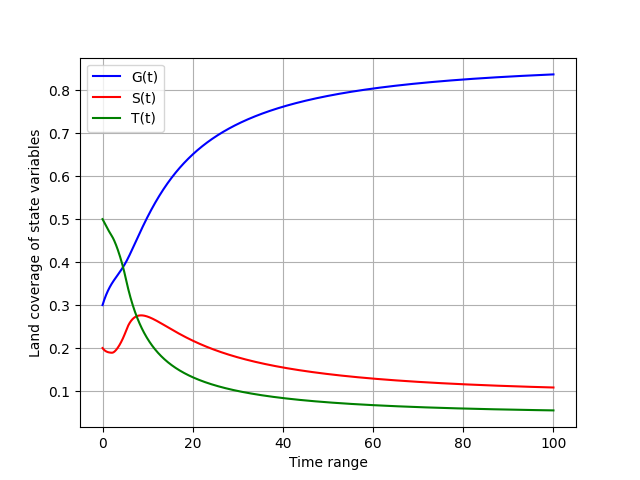
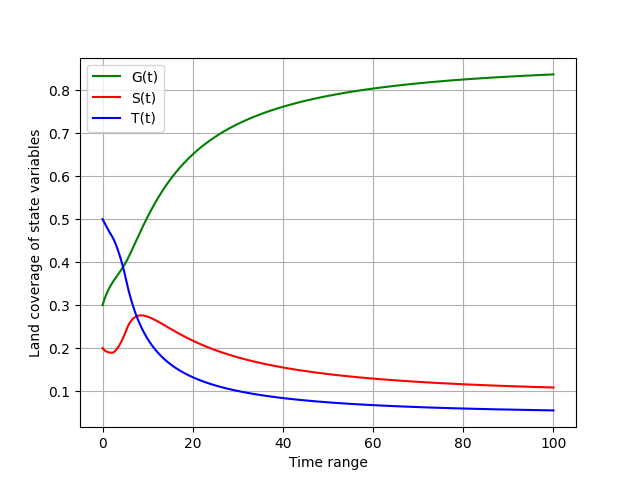
RK methods are missing for ODE systems

diff --git a/Project/numeric_methods.py b/Project/numeric_methods.py
@@ -17,3 +17,57 @@ def euler_explicit_method(f, t_vector, u0, h):
         T[i + 1] = T[i] + h * (f(u, t_vector[i])[2])
     ans = [G, S, T]
     return ans
+
+def euler_implicit_method(f, t_vector, u0, h):
+    n = len(t_vector)
+    G = np.zeros(n)
+    S = np.zeros(n)
+    T = np.zeros(n)
+    G[0] = u0[0]
+    S[0] = u0[1]
+    T[0] = u0[2]
+    for i in range(n-1):
+        u = [G[i], S[i], T[i]]
+        def equations(vars):
+            #nonlinear equation system
+            y1, y2, y3 = vars
+            eq1 = y1 - G[i] - (h * (f(vars, t_vector[i])[0]))
+            eq2 = y2 - S[i] - (h * (f(vars, t_vector[i])[1]))
+            eq3 = y3 - T[i] - (h * (f(vars, t_vector[i])[2]))
+            return [eq1, eq2, eq3]
+        y1, y2, y3 =  optimize.fsolve(equations, (G[i], S[i], T[i]))
+        G[i + 1] = y1
+        S[i + 1] = y2
+        T[i + 1] = y3
+    ans = [G, S, T]
+    return ans
+
+def trapezoid_method(f, t_vector, u0, h):
+    n = len(t_vector)
+    G = np.zeros(n)
+    S = np.zeros(n)
+    T = np.zeros(n)
+    G[0] = u0[0]
+    S[0] = u0[1]
+    T[0] = u0[2]
+    for i in range(n-1):
+        u = [G[i], S[i], T[i]]
+        def equations(vars):
+            #nonlinear equation system
+            y1, y2, y3 = vars
+            eq1 = y1 - G[i] - ((h/2)*(f(u, t_vector[i])[0] + f(vars, t_vector[i])[0]))
+            eq2 = y2 - S[i] - ((h/2)*(f(u, t_vector[i])[1] + f(vars, t_vector[i])[1]))
+            eq3 = y3 - T[i] - ((h/2)*(f(u, t_vector[i])[2] + f(vars, t_vector[i])[2]))
+            return [eq1, eq2, eq3]
+        y1, y2, y3 =  optimize.fsolve(equations, (G[i], S[i], T[i]))
+        G[i + 1] = y1
+        S[i + 1] = y2
+        T[i + 1] = y3
+    ans = [G, S, T]
+    return ans
+
+def runge_kutta_implicit_2s():
+    return
+
+def runge_kutta_explicit_rs():
+    return

diff --git a/Project/project.py b/Project/project.py
@@ -1,7 +1,8 @@
 import numpy as np
 import matplotlib.pyplot as plt
 from scipy.integrate import odeint
-from numeric_methods import euler_explicit_method
+from numeric_methods import euler_explicit_method, euler_implicit_method, trapezoid_method
+from numeric_methods import runge_kutta_implicit_2s, runge_kutta_explicit_rs
 
 alfa = 0.35
 epsilon = 0.05
@@ -13,9 +14,9 @@ omega_1 = 0.1
 
 def plot_graphics(t_vector, G, S, T, name):
     plt.clf()
-    plt.plot(t_vector, G, 'b', label='G(t)')
+    plt.plot(t_vector, G, 'g', label='G(t)')
     plt.plot(t_vector, S, 'r', label='S(t)')
-    plt.plot(t_vector, T, 'g', label='T(t)')
+    plt.plot(t_vector, T, 'b', label='T(t)')
     plt.legend()
     plt.grid()
     plt.xlabel('Time range')
@@ -52,9 +53,17 @@ u = odeint(ode_system, u0, t_vector)
 G, S, T = u.T
 plot_graphics(t_vector, G, S, T, "odeint()_solution")
 
-#euler euler explicit method
+#euler explicit method
 G, S, T = euler_explicit_method(ode_system, t_vector, u0, h)
 plot_graphics(t_vector, G, S, T, "euler_explicit_solution")
+
+#euler implicit method
+G, S, T = euler_implicit_method(ode_system, t_vector, u0, h)
+plot_graphics(t_vector, G, S, T, "euler_implicit_solution")
+
+#trapezoid method
+G, S, T = trapezoid_method(ode_system, t_vector, u0, h)
+plot_graphics(t_vector, G, S, T, "trapezoid_solution")
 
 #Second Simulation
 #G0 = 0.8

diff --git a/main.py b/main.py
@@ -16,8 +16,6 @@ N = 1000
 nm = NumericMethods(f, y0, t0, tf, N, sol_analitica)
 
 #Prueba Metodos
-p1 = nm.euler_explicit(True)
-p2 = nm.euler_implicit(True)
 p3 = nm.trapezoid(True)
 
 method_selector = 1 #0:euler_explicit, 1:euler_implicit, 2:trapezoid, 3:RK Implicit, 4:RK Explicit
